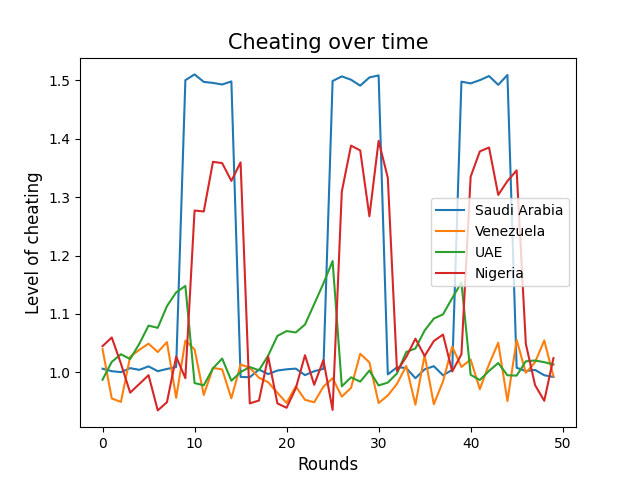
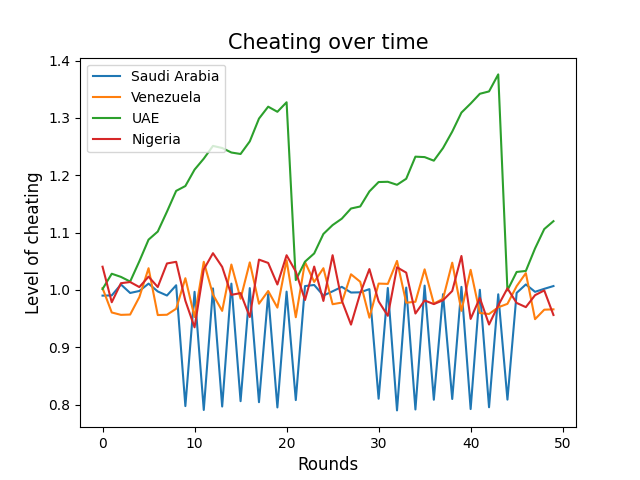
added two new scenarios

diff --git a/main.py b/main.py
@@ -52,7 +52,14 @@ def main():
 if __name__ == "__main__":
     main()
 
-    print("Profit of Each Country:")
+    # only gives trustworthy results when PROD_NOISE = 0
+    cartel_total = 0
+    print("Profit of Each Country with noise fixed to zero:")
     print("")
     for country in country.COUNTRIES:
-        print(f"{country.name} : $ {int(country.total_profit)}")
+        print(f"{country.name} : ${int(country.total_profit)}")
+        cartel_total += country.total_profit
+
+    print("")
+    print(f"Total profit of OPEC cartel with noise fixed to zero: ${int(cartel_total)}")
+

diff --git a/country.py b/country.py
@@ -45,4 +45,4 @@ def load_countries(strategy_name, path="strategies.json"):
 
     return countries
 
-COUNTRIES = load_countries("base_strat") 
+COUNTRIES = load_countries("saudi_saviour")

diff --git a/strategies.py b/strategies.py
@@ -67,5 +67,5 @@ strategy_dict = {
     "creeper" : play_creeper,
     "enforce" : play_enforce,
     "desperate" : play_desperate,
-    "save market" : play_save_market
+    "save_market" : play_save_market
 }